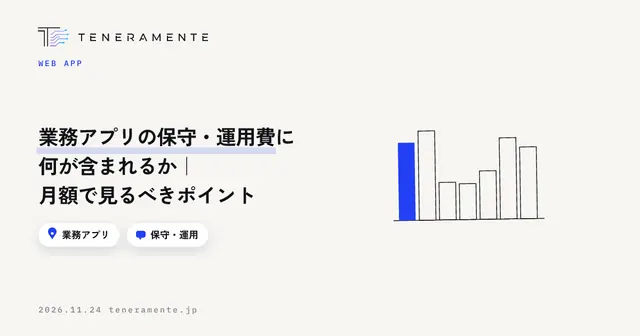
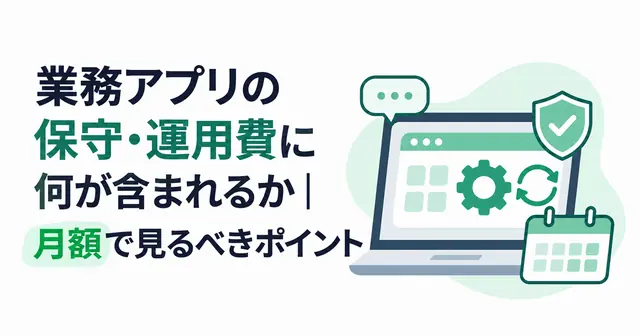
covers: 記事のトップ画像を ChatGPT の画像に差し替え（k123・k028・m210・m059・m058・m057・m056）

diff --git a/mieroom/articles/gyomu-system-demo-kakunin.html b/mieroom/articles/gyomu-system-demo-kakunin.html
@@ -13,15 +13,15 @@
 <meta property="og:description" content="賃貸仲介の店舗が業務管理システムのデモや説明の場で何を確かめればよいかを、反響から来店・接客、申込から入金・後AD、店長が数字を見る場面に分けて整理しました。デモの前に用意するもののチェックリストと、よくある失敗もまとめています。">
 <meta property="og:url" content="https://mieroom.cloud/articles/gyomu-system-demo-kakunin.html">
 <meta property="og:site_name" content="ミエルーム">
-<meta property="og:image" content="https://mieroom.cloud/assets/og-mieroom.png">
+<meta property="og:image" content="https://mieroom.cloud/assets/covers/gyomu-system-demo-kakunin.png">
 <meta property="og:image:width" content="1200">
-<meta property="og:image:height" content="630">
+<meta property="og:image:height" content="675">
 <meta name="twitter:card" content="summary_large_image">
 <link rel="preconnect" href="https://fonts.googleapis.com">
 <link rel="preconnect" href="https://fonts.gstatic.com" crossorigin>
 <link href="https://fonts.googleapis.com/css2?family=Noto+Sans+JP:wght@400;500;700;900&family=Zen+Kaku+Gothic+New:wght@500;700;900&display=swap" rel="stylesheet">
 <link rel="stylesheet" href="../assets/site.css">
-<script type="application/ld+json">{"@context":"https://schema.org","@graph":[{"@type":"BlogPosting","headline":"業務管理システムのデモで確かめること｜賃貸仲介の店舗が見るべき場面","description":"賃貸仲介の店舗が業務管理システムのデモや説明の場で何を確かめればよいかを、反響から来店・接客、申込から入金・後AD、店長が数字を見る場面に分けて整理しました。デモの前に用意するもののチェックリストと、よくある失敗もまとめています。","datePublished":"2026-11-28","dateModified":"2026-11-28","inLanguage":"ja","mainEntityOfPage":"https://mieroom.cloud/articles/gyomu-system-demo-kakunin.html","image":"https://mieroom.cloud/assets/og-mieroom.png","articleSection":"DX","author":{"@type":"Organization","name":"ミエルーム編集部"},"publisher":{"@type":"Organization","name":"株式会社TENERAMENTE","logo":{"@type":"ImageObject","url":"https://teneramente.jp/assets/img/favicon-512.png"}},"keywords":"業務管理システム, システム選定, デモ, 店舗運営, 賃貸仲介"},{"@type":"BreadcrumbList","itemListElement":[{"@type":"ListItem","position":1,"name":"ミエルーム","item":"https://mieroom.cloud/"},{"@type":"ListItem","position":2,"name":"ブログ","item":"https://mieroom.cloud/blog.html"},{"@type":"ListItem","position":3,"name":"業務管理システムのデモで確かめること｜賃貸仲介の店舗が見るべき場面","item":"https://mieroom.cloud/articles/gyomu-system-demo-kakunin.html"}]},{"@type":"FAQPage","mainEntity":[{"@type":"Question","name":"デモは何社くらい見ればよいですか？","acceptedAnswer":{"@type":"Answer","text":"数に決まりはありませんが、見るたびに同じ確認表へ書き込める範囲に絞るのがおすすめです。比べる軸を決めずに多くのデモを見ると、印象の比較になりがちです。まず自店の場面ごとの確認項目を作り、それに合いそうなものから見ていきます。"}},{"@type":"Question","name":"デモで実際の案件のデータを見せても大丈夫ですか？","acceptedAnswer":{"@type":"Answer","text":"お客様の氏名や連絡先などの個人情報は伏せ、案件の流れ（申込日、契約日、入金の状況など）が分かる形にして伝えます。流れが再現できれば、確かめたいことは十分に確認できます。"}},{"@type":"Question","name":"デモアカウントを発行してもらった場合、何を試せばよいですか？","acceptedAnswer":{"@type":"Answer","text":"説明の場で見た操作を、自店のスタッフが自分で再現できるかを試します。特に、反響の登録から申込・入金の記録までを、説明なしで操作できるかが大切です。操作に迷った場面は、導入後の教え方を考えるときの材料になります。"}},{"@type":"Question","name":"今のExcelのデータは、そのまま移せるものですか？","acceptedAnswer":{"@type":"Answer","text":"システムによって対応が違います。デモの場で、今使っている管理表の見本を見せ、どの項目がどこに入るのか、取り込みや初期設定を誰が行うのかを確かめておきます。移す範囲を先に決めておくと、話が早く進みます。"}},{"@type":"Question","name":"繁忙期の直前に導入を決めても間に合いますか？","acceptedAnswer":{"@type":"Answer","text":"使い始めるまでの段取りによります。初期設定とデータの移行にかかる手間、スタッフが操作に慣れるまでの時間を考えると、繁忙期より前に余裕を持って決めるほうが安心です。デモの場で、使い始めるまでの流れを具体的に聞いておきます。"}}]}]}</script>
+<script type="application/ld+json">{"@context":"https://schema.org","@graph":[{"@type":"BlogPosting","headline":"業務管理システムのデモで確かめること｜賃貸仲介の店舗が見るべき場面","description":"賃貸仲介の店舗が業務管理システムのデモや説明の場で何を確かめればよいかを、反響から来店・接客、申込から入金・後AD、店長が数字を見る場面に分けて整理しました。デモの前に用意するもののチェックリストと、よくある失敗もまとめています。","datePublished":"2026-11-28","dateModified":"2026-11-28","inLanguage":"ja","mainEntityOfPage":"https://mieroom.cloud/articles/gyomu-system-demo-kakunin.html","image":"https://mieroom.cloud/assets/covers/gyomu-system-demo-kakunin.png","articleSection":"DX","author":{"@type":"Organization","name":"ミエルーム編集部"},"publisher":{"@type":"Organization","name":"株式会社TENERAMENTE","logo":{"@type":"ImageObject","url":"https://teneramente.jp/assets/img/favicon-512.png"}},"keywords":"業務管理システム, システム選定, デモ, 店舗運営, 賃貸仲介"},{"@type":"BreadcrumbList","itemListElement":[{"@type":"ListItem","position":1,"name":"ミエルーム","item":"https://mieroom.cloud/"},{"@type":"ListItem","position":2,"name":"ブログ","item":"https://mieroom.cloud/blog.html"},{"@type":"ListItem","position":3,"name":"業務管理システムのデモで確かめること｜賃貸仲介の店舗が見るべき場面","item":"https://mieroom.cloud/articles/gyomu-system-demo-kakunin.html"}]},{"@type":"FAQPage","mainEntity":[{"@type":"Question","name":"デモは何社くらい見ればよいですか？","acceptedAnswer":{"@type":"Answer","text":"数に決まりはありませんが、見るたびに同じ確認表へ書き込める範囲に絞るのがおすすめです。比べる軸を決めずに多くのデモを見ると、印象の比較になりがちです。まず自店の場面ごとの確認項目を作り、それに合いそうなものから見ていきます。"}},{"@type":"Question","name":"デモで実際の案件のデータを見せても大丈夫ですか？","acceptedAnswer":{"@type":"Answer","text":"お客様の氏名や連絡先などの個人情報は伏せ、案件の流れ（申込日、契約日、入金の状況など）が分かる形にして伝えます。流れが再現できれば、確かめたいことは十分に確認できます。"}},{"@type":"Question","name":"デモアカウントを発行してもらった場合、何を試せばよいですか？","acceptedAnswer":{"@type":"Answer","text":"説明の場で見た操作を、自店のスタッフが自分で再現できるかを試します。特に、反響の登録から申込・入金の記録までを、説明なしで操作できるかが大切です。操作に迷った場面は、導入後の教え方を考えるときの材料になります。"}},{"@type":"Question","name":"今のExcelのデータは、そのまま移せるものですか？","acceptedAnswer":{"@type":"Answer","text":"システムによって対応が違います。デモの場で、今使っている管理表の見本を見せ、どの項目がどこに入るのか、取り込みや初期設定を誰が行うのかを確かめておきます。移す範囲を先に決めておくと、話が早く進みます。"}},{"@type":"Question","name":"繁忙期の直前に導入を決めても間に合いますか？","acceptedAnswer":{"@type":"Answer","text":"使い始めるまでの段取りによります。初期設定とデータの移行にかかる手間、スタッフが操作に慣れるまでの時間を考えると、繁忙期より前に余裕を持って決めるほうが安心です。デモの場で、使い始めるまでの流れを具体的に聞いておきます。"}}]}]}</script>
 <style id="mp-nav-fit">
 /* 狭い画面ではヘッダーのボタンを小さくして、右にはみ出さないようにする */
 @media (max-width: 640px) {
@@ -75,7 +75,9 @@
     </div>
   </div>
 </section>
-
+<div class="post-cover">
+  <div class="band band--img"><img src="../assets/covers/gyomu-system-demo-kakunin.webp" alt="業務管理システムのデモで確かめること｜賃貸仲介の店舗が見るべき場面" width="1200" height="675" decoding="async"></div>
+</div>
 <div class="post-body">
 <p>業務管理システムを比べるとき、デモや説明の場は「よさそうだった」という印象だけで終わりがちです。けれども導入してから困るのは、画面の見た目ではなく、自店の仕事の流れに合うかどうかです。<strong>業務管理システムのデモで確かめるべきなのは、機能の数ではなく自店の1日の流れ</strong>です。この記事では、賃貸仲介の店舗がデモで見るべき場面と、確かめる項目を整理します。</p>
 <div class="conclusion"><h4>この記事の結論</h4><p>デモの前に自店の業務を場面ごとに書き出し、<strong>反響から入金・後ADまでの実際の案件を1件流してもらう</strong>形で確かめると、導入後のずれが減ります。見るのは機能の有無より、入力の回数、途中の状態の分かりやすさ、店長が数字を見るまでの手間です。</p></div>

diff --git a/mieroom/articles/denwa-taio-manual.html b/mieroom/articles/denwa-taio-manual.html
@@ -13,15 +13,15 @@
 <meta property="og:description" content="賃貸仲介の店舗で、電話の一次対応を誰が出ても同じ形にするためのマニュアルの作り方をまとめました。最初に聞く項目の固定、物件が埋まっていたときの受け方、取次と不在時のルール、通話内容を記録に戻すところまで整理しています。">
 <meta property="og:url" content="https://mieroom.cloud/articles/denwa-taio-manual.html">
 <meta property="og:site_name" content="ミエルーム">
-<meta property="og:image" content="https://mieroom.cloud/assets/og-mieroom.png">
+<meta property="og:image" content="https://mieroom.cloud/assets/covers/denwa-taio-manual.png">
 <meta property="og:image:width" content="1200">
-<meta property="og:image:height" content="630">
+<meta property="og:image:height" content="675">
 <meta name="twitter:card" content="summary_large_image">
 <link rel="preconnect" href="https://fonts.googleapis.com">
 <link rel="preconnect" href="https://fonts.gstatic.com" crossorigin>
 <link href="https://fonts.googleapis.com/css2?family=Noto+Sans+JP:wght@400;500;700;900&family=Zen+Kaku+Gothic+New:wght@500;700;900&display=swap" rel="stylesheet">
 <link rel="stylesheet" href="../assets/site.css">
-<script type="application/ld+json">{"@context":"https://schema.org","@graph":[{"@type":"BlogPosting","headline":"賃貸仲介の電話対応マニュアルの作り方｜一次対応で聞く項目と記録の残し方","description":"賃貸仲介の店舗で、電話の一次対応を誰が出ても同じ形にするためのマニュアルの作り方をまとめました。最初に聞く項目の固定、物件が埋まっていたときの受け方、取次と不在時のルール、通話内容を記録に戻すところまで整理しています。","datePublished":"2026-10-23","dateModified":"2026-10-23","inLanguage":"ja","mainEntityOfPage":"https://mieroom.cloud/articles/denwa-taio-manual.html","image":"https://mieroom.cloud/assets/og-mieroom.png","articleSection":"業務効率化","author":{"@type":"Organization","name":"ミエルーム編集部"},"publisher":{"@type":"Organization","name":"株式会社TENERAMENTE","logo":{"@type":"ImageObject","url":"https://teneramente.jp/assets/img/favicon-512.png"}},"keywords":"反響管理, 電話対応, マニュアル, 新人育成, 賃貸仲介"},{"@type":"BreadcrumbList","itemListElement":[{"@type":"ListItem","position":1,"name":"ミエルーム","item":"https://mieroom.cloud/"},{"@type":"ListItem","position":2,"name":"ブログ","item":"https://mieroom.cloud/blog.html"},{"@type":"ListItem","position":3,"name":"賃貸仲介の電話対応マニュアルの作り方｜一次対応で聞く項目と記録の残し方","item":"https://mieroom.cloud/articles/denwa-taio-manual.html"}]},{"@type":"FAQPage","mainEntity":[{"@type":"Question","name":"電話で聞く項目は、多いほうがよいのではないですか？","acceptedAnswer":{"@type":"Answer","text":"一次対応では増やさないほうが結果につながります。電話で細かく条件を詰めようとすると、相手の負担になって話が終わってしまいます。電話で必要なのは、来店か次の連絡の約束を取れる程度の情報です。希望時期と、条件を1つか2つ。詳しい条件の聞き取りは来店時に行う前提で分けておくと、電話の時間が短くなり、約束まで進みやすくなります。"}},{"@type":"Question","name":"電話に出る人を決めておいたほうがよいですか？","acceptedAnswer":{"@type":"Answer","text":"担当を固定するより、誰が出ても同じ項目を聞ける形にしておくことをおすすめします。繁忙期は、決めた人が必ず出られるとは限りません。固定すると、その人が出られない時間帯の対応が崩れます。聞く項目と記録の形を揃えておけば、出た人がそのまま一次対応を終えられます。そのうえで、担当がついている方からの電話だけ取次ぐルールにする形が現実的です。"}},{"@type":"Question","name":"電話の内容を記録する時間が取れません。どうすればよいですか？","acceptedAnswer":{"@type":"Answer","text":"記録する項目を減らしてください。反響元、問い合わせ物件、希望時期、希望条件、次の約束、受けた日時と受けた人の6つに絞れば、通話の直後に入れられる分量になります。項目が多いマニュアルは、忙しい日に記録そのものが飛びます。また、紙のメモからの転記をなくし、記録する場所へ直接入れる形にすると、二度手間の分だけ時間が戻ります。"}}]}]}</script>
+<script type="application/ld+json">{"@context":"https://schema.org","@graph":[{"@type":"BlogPosting","headline":"賃貸仲介の電話対応マニュアルの作り方｜一次対応で聞く項目と記録の残し方","description":"賃貸仲介の店舗で、電話の一次対応を誰が出ても同じ形にするためのマニュアルの作り方をまとめました。最初に聞く項目の固定、物件が埋まっていたときの受け方、取次と不在時のルール、通話内容を記録に戻すところまで整理しています。","datePublished":"2026-10-23","dateModified":"2026-10-23","inLanguage":"ja","mainEntityOfPage":"https://mieroom.cloud/articles/denwa-taio-manual.html","image":"https://mieroom.cloud/assets/covers/denwa-taio-manual.png","articleSection":"業務効率化","author":{"@type":"Organization","name":"ミエルーム編集部"},"publisher":{"@type":"Organization","name":"株式会社TENERAMENTE","logo":{"@type":"ImageObject","url":"https://teneramente.jp/assets/img/favicon-512.png"}},"keywords":"反響管理, 電話対応, マニュアル, 新人育成, 賃貸仲介"},{"@type":"BreadcrumbList","itemListElement":[{"@type":"ListItem","position":1,"name":"ミエルーム","item":"https://mieroom.cloud/"},{"@type":"ListItem","position":2,"name":"ブログ","item":"https://mieroom.cloud/blog.html"},{"@type":"ListItem","position":3,"name":"賃貸仲介の電話対応マニュアルの作り方｜一次対応で聞く項目と記録の残し方","item":"https://mieroom.cloud/articles/denwa-taio-manual.html"}]},{"@type":"FAQPage","mainEntity":[{"@type":"Question","name":"電話で聞く項目は、多いほうがよいのではないですか？","acceptedAnswer":{"@type":"Answer","text":"一次対応では増やさないほうが結果につながります。電話で細かく条件を詰めようとすると、相手の負担になって話が終わってしまいます。電話で必要なのは、来店か次の連絡の約束を取れる程度の情報です。希望時期と、条件を1つか2つ。詳しい条件の聞き取りは来店時に行う前提で分けておくと、電話の時間が短くなり、約束まで進みやすくなります。"}},{"@type":"Question","name":"電話に出る人を決めておいたほうがよいですか？","acceptedAnswer":{"@type":"Answer","text":"担当を固定するより、誰が出ても同じ項目を聞ける形にしておくことをおすすめします。繁忙期は、決めた人が必ず出られるとは限りません。固定すると、その人が出られない時間帯の対応が崩れます。聞く項目と記録の形を揃えておけば、出た人がそのまま一次対応を終えられます。そのうえで、担当がついている方からの電話だけ取次ぐルールにする形が現実的です。"}},{"@type":"Question","name":"電話の内容を記録する時間が取れません。どうすればよいですか？","acceptedAnswer":{"@type":"Answer","text":"記録する項目を減らしてください。反響元、問い合わせ物件、希望時期、希望条件、次の約束、受けた日時と受けた人の6つに絞れば、通話の直後に入れられる分量になります。項目が多いマニュアルは、忙しい日に記録そのものが飛びます。また、紙のメモからの転記をなくし、記録する場所へ直接入れる形にすると、二度手間の分だけ時間が戻ります。"}}]}]}</script>
 <style id="mp-nav-fit">
 /* 狭い画面ではヘッダーのボタンを小さくして、右にはみ出さないようにする */
 @media (max-width: 640px) {
@@ -75,7 +75,9 @@
     </div>
   </div>
 </section>
-
+<div class="post-cover">
+  <div class="band band--img"><img src="../assets/covers/denwa-taio-manual.webp" alt="賃貸仲介の電話対応マニュアルの作り方｜一次対応で聞く項目と記録の残し方" width="1200" height="675" decoding="async"></div>
+</div>
 <div class="post-body">
 <p>ポータルサイトを見た方からの電話は、誰が受けても同じ内容になっているでしょうか。実際には、出た人によって聞く項目も受け方も変わりがちです。<strong>電話対応マニュアルで決めるべきなのは、話し方の見本ではなく、最初の数十秒で必ず聞く項目と、通話のあとに記録として何を残すかです</strong>。</p>
 <div class="conclusion"><h4>この記事の結論</h4><p>電話対応マニュアルは、文例集ではなく決めごとの一覧として作ります。<strong>固定するのは「必ず聞く項目」「物件が埋まっていたときの受け方」「取次と不在時のルール」「記録に残す内容」の4つ</strong>です。この4つが揃っていれば、新人が最初に電話を取っても来店の約束まで進められます。</p></div>

diff --git a/mieroom/articles/bukken-nyuko-tejun.html b/mieroom/articles/bukken-nyuko-tejun.html
@@ -13,15 +13,15 @@
 <meta property="og:description" content="複数のポータルサイトへ物件を出す入稿作業の時間を短くする手順をまとめました。物件情報の元をどこに置くか、掲載先ごとに違う項目の整理、新規より漏れやすい更新の進め方、担当と頻度の決め方まで整理しています。">
 <meta property="og:url" content="https://mieroom.cloud/articles/bukken-nyuko-tejun.html">
 <meta property="og:site_name" content="ミエルーム">
-<meta property="og:image" content="https://mieroom.cloud/assets/og-mieroom.png">
+<meta property="og:image" content="https://mieroom.cloud/assets/covers/bukken-nyuko-tejun.png">
 <meta property="og:image:width" content="1200">
-<meta property="og:image:height" content="630">
+<meta property="og:image:height" content="675">
 <meta name="twitter:card" content="summary_large_image">
 <link rel="preconnect" href="https://fonts.googleapis.com">
 <link rel="preconnect" href="https://fonts.gstatic.com" crossorigin>
 <link href="https://fonts.googleapis.com/css2?family=Noto+Sans+JP:wght@400;500;700;900&family=Zen+Kaku+Gothic+New:wght@500;700;900&display=swap" rel="stylesheet">
 <link rel="stylesheet" href="../assets/site.css">
-<script type="application/ld+json">{"@context":"https://schema.org","@graph":[{"@type":"BlogPosting","headline":"物件入稿の作業を短くする手順｜複数ポータルの重複入力と更新漏れをなくす","description":"複数のポータルサイトへ物件を出す入稿作業の時間を短くする手順をまとめました。物件情報の元をどこに置くか、掲載先ごとに違う項目の整理、新規より漏れやすい更新の進め方、担当と頻度の決め方まで整理しています。","datePublished":"2026-10-24","dateModified":"2026-10-24","inLanguage":"ja","mainEntityOfPage":"https://mieroom.cloud/articles/bukken-nyuko-tejun.html","image":"https://mieroom.cloud/assets/og-mieroom.png","articleSection":"集客・広告","author":{"@type":"Organization","name":"ミエルーム編集部"},"publisher":{"@type":"Organization","name":"株式会社TENERAMENTE","logo":{"@type":"ImageObject","url":"https://teneramente.jp/assets/img/favicon-512.png"}},"keywords":"物件入稿, ポータルサイト, 業務効率化, 掲載管理, 賃貸仲介"},{"@type":"BreadcrumbList","itemListElement":[{"@type":"ListItem","position":1,"name":"ミエルーム","item":"https://mieroom.cloud/"},{"@type":"ListItem","position":2,"name":"ブログ","item":"https://mieroom.cloud/blog.html"},{"@type":"ListItem","position":3,"name":"物件入稿の作業を短くする手順｜複数ポータルの重複入力と更新漏れをなくす","item":"https://mieroom.cloud/articles/bukken-nyuko-tejun.html"}]},{"@type":"FAQPage","mainEntity":[{"@type":"Question","name":"掲載先を減らしたほうが、作業は楽になりますか？","acceptedAnswer":{"@type":"Answer","text":"作業は減りますが、反響も減ります。先に見るのは、掲載先ごとにどれくらい反響が来ているかです。反響がほとんど来ていない掲載先であれば、作業量とあわせて見直す判断ができます。一方で、入稿の手間が理由で減らすのは順番が逆です。元を1か所に持つ形にすれば、掲載先が増えても作業は比例して増えません。まず形を変えてから、掲載先の数を判断してください。"}},{"@type":"Question","name":"入稿は担当者ごとに分けるべきですか、1人に集めるべきですか？","acceptedAnswer":{"@type":"Answer","text":"入稿する作業は分けてかまいません。繁忙期に1人に集めると、その人が休んだ日に掲載が止まります。ただし、掲載が今どうなっているかを確認する役は1人に決めてください。作業を分担しても、全体を見る人がいれば出し忘れと下げ忘れは拾えます。確認の役が複数いる形は、結果として誰も見ない状態になりやすいです。"}},{"@type":"Question","name":"写真や図面が元付けから来ないときはどうしていますか？","acceptedAnswer":{"@type":"Answer","text":"足りない状態でも出せる範囲で先に掲載し、材料がそろった時点で差し替える進め方が現実的です。ただし、どの物件で何が足りていないかを記録に残しておくことが前提になります。残っていないと、図面のない物件がそのまま掲載され続けます。依頼した日と、誰に依頼したかを物件の記録に書いておけば、催促の判断もできます。"}}]}]}</script>
+<script type="application/ld+json">{"@context":"https://schema.org","@graph":[{"@type":"BlogPosting","headline":"物件入稿の作業を短くする手順｜複数ポータルの重複入力と更新漏れをなくす","description":"複数のポータルサイトへ物件を出す入稿作業の時間を短くする手順をまとめました。物件情報の元をどこに置くか、掲載先ごとに違う項目の整理、新規より漏れやすい更新の進め方、担当と頻度の決め方まで整理しています。","datePublished":"2026-10-24","dateModified":"2026-10-24","inLanguage":"ja","mainEntityOfPage":"https://mieroom.cloud/articles/bukken-nyuko-tejun.html","image":"https://mieroom.cloud/assets/covers/bukken-nyuko-tejun.png","articleSection":"集客・広告","author":{"@type":"Organization","name":"ミエルーム編集部"},"publisher":{"@type":"Organization","name":"株式会社TENERAMENTE","logo":{"@type":"ImageObject","url":"https://teneramente.jp/assets/img/favicon-512.png"}},"keywords":"物件入稿, ポータルサイト, 業務効率化, 掲載管理, 賃貸仲介"},{"@type":"BreadcrumbList","itemListElement":[{"@type":"ListItem","position":1,"name":"ミエルーム","item":"https://mieroom.cloud/"},{"@type":"ListItem","position":2,"name":"ブログ","item":"https://mieroom.cloud/blog.html"},{"@type":"ListItem","position":3,"name":"物件入稿の作業を短くする手順｜複数ポータルの重複入力と更新漏れをなくす","item":"https://mieroom.cloud/articles/bukken-nyuko-tejun.html"}]},{"@type":"FAQPage","mainEntity":[{"@type":"Question","name":"掲載先を減らしたほうが、作業は楽になりますか？","acceptedAnswer":{"@type":"Answer","text":"作業は減りますが、反響も減ります。先に見るのは、掲載先ごとにどれくらい反響が来ているかです。反響がほとんど来ていない掲載先であれば、作業量とあわせて見直す判断ができます。一方で、入稿の手間が理由で減らすのは順番が逆です。元を1か所に持つ形にすれば、掲載先が増えても作業は比例して増えません。まず形を変えてから、掲載先の数を判断してください。"}},{"@type":"Question","name":"入稿は担当者ごとに分けるべきですか、1人に集めるべきですか？","acceptedAnswer":{"@type":"Answer","text":"入稿する作業は分けてかまいません。繁忙期に1人に集めると、その人が休んだ日に掲載が止まります。ただし、掲載が今どうなっているかを確認する役は1人に決めてください。作業を分担しても、全体を見る人がいれば出し忘れと下げ忘れは拾えます。確認の役が複数いる形は、結果として誰も見ない状態になりやすいです。"}},{"@type":"Question","name":"写真や図面が元付けから来ないときはどうしていますか？","acceptedAnswer":{"@type":"Answer","text":"足りない状態でも出せる範囲で先に掲載し、材料がそろった時点で差し替える進め方が現実的です。ただし、どの物件で何が足りていないかを記録に残しておくことが前提になります。残っていないと、図面のない物件がそのまま掲載され続けます。依頼した日と、誰に依頼したかを物件の記録に書いておけば、催促の判断もできます。"}}]}]}</script>
 <style id="mp-nav-fit">
 /* 狭い画面ではヘッダーのボタンを小さくして、右にはみ出さないようにする */
 @media (max-width: 640px) {
@@ -75,7 +75,9 @@
     </div>
   </div>
 </section>
-
+<div class="post-cover">
+  <div class="band band--img"><img src="../assets/covers/bukken-nyuko-tejun.webp" alt="物件入稿の作業を短くする手順｜複数ポータルの重複入力と更新漏れをなくす" width="1200" height="675" decoding="async"></div>
+</div>
 <div class="post-body">
 <p>物件を1件お預かりしてから掲載が出るまでに、どれくらい時間がかかっているでしょうか。掲載先が3つあれば、同じ物件の入力を3回繰り返している店舗も少なくありません。<strong>入稿の時間が長いのは、作業が遅いからではなく、同じ内容を掲載先ごとに打ち直しているからです</strong>。</p>
 <div class="conclusion"><h4>この記事の結論</h4><p>入稿を短くする方法は、入力を速くすることではありません。<strong>物件情報の「元」を1か所に持ち、掲載先ごとに違う部分だけを足す形に変えること</strong>です。この形にしておくと、新規の入稿も、賃料改定や成約にともなう更新も、元を直すだけで済みます。</p></div>

diff --git a/mieroom/articles/futai-shueki-kanri.html b/mieroom/articles/futai-shueki-kanri.html
@@ -13,15 +13,15 @@
 <meta property="og:description" content="仲介手数料以外の収益は、案件ごとに記録していないと取りこぼしに気づけません。付帯収益になるものの洗い出し方、漏れが起きる場面、案件ごとに残す項目、確定と見込みの分け方までを整理しました。">
 <meta property="og:url" content="https://mieroom.cloud/articles/futai-shueki-kanri.html">
 <meta property="og:site_name" content="ミエルーム">
-<meta property="og:image" content="https://mieroom.cloud/assets/og-mieroom.png">
+<meta property="og:image" content="https://mieroom.cloud/assets/covers/futai-shueki-kanri.png">
 <meta property="og:image:width" content="1200">
-<meta property="og:image:height" content="630">
+<meta property="og:image:height" content="675">
 <meta name="twitter:card" content="summary_large_image">
 <link rel="preconnect" href="https://fonts.googleapis.com">
 <link rel="preconnect" href="https://fonts.gstatic.com" crossorigin>
 <link href="https://fonts.googleapis.com/css2?family=Noto+Sans+JP:wght@400;500;700;900&family=Zen+Kaku+Gothic+New:wght@500;700;900&display=swap" rel="stylesheet">
 <link rel="stylesheet" href="../assets/site.css">
-<script type="application/ld+json">{"@context":"https://schema.org","@graph":[{"@type":"BlogPosting","headline":"賃貸仲介の付帯収益の管理｜保険や保証会社の手数料を取りこぼさない","description":"仲介手数料以外の収益は、案件ごとに記録していないと取りこぼしに気づけません。付帯収益になるものの洗い出し方、漏れが起きる場面、案件ごとに残す項目、確定と見込みの分け方までを整理しました。","datePublished":"2026-10-25","dateModified":"2026-10-25","inLanguage":"ja","mainEntityOfPage":"https://mieroom.cloud/articles/futai-shueki-kanri.html","image":"https://mieroom.cloud/assets/og-mieroom.png","articleSection":"売上管理","author":{"@type":"Organization","name":"ミエルーム編集部"},"publisher":{"@type":"Organization","name":"株式会社TENERAMENTE","logo":{"@type":"ImageObject","url":"https://teneramente.jp/assets/img/favicon-512.png"}},"keywords":"売上管理, 付帯収益, 請求漏れ, 店舗運営, 賃貸仲介"},{"@type":"BreadcrumbList","itemListElement":[{"@type":"ListItem","position":1,"name":"ミエルーム","item":"https://mieroom.cloud/"},{"@type":"ListItem","position":2,"name":"ブログ","item":"https://mieroom.cloud/blog.html"},{"@type":"ListItem","position":3,"name":"賃貸仲介の付帯収益の管理｜保険や保証会社の手数料を取りこぼさない","item":"https://mieroom.cloud/articles/futai-shueki-kanri.html"}]},{"@type":"FAQPage","mainEntity":[{"@type":"Question","name":"付帯収益は毎月いくらを目標にすべきですか？","acceptedAnswer":{"@type":"Answer","text":"金額の目標を先に置くより、取りこぼしをゼロにするほうが先です。扱いのある付帯について、対象だった案件のうち処理済みの件数がどれだけあるかを見てください。ここが埋まっていない状態で目標を立てると、現場は新しい提案を増やす方向に動きます。先に漏れを止めてから、提案の話に進むほうが無理がありません。"}},{"@type":"Question","name":"お客様が自分で保険に入る場合、記録は不要ですか？","acceptedAnswer":{"@type":"Answer","text":"記録してください。対象外だったことが残っていないと、確認のたびに同じ案件を調べ直すことになります。「自己手配」と1つ入れておけば、未処理の一覧から外れます。記録の目的は売上を作ることではなく、追わなくてよい案件を確定させることです。"}},{"@type":"Question","name":"担当者ごとの成績に付帯収益を入れるべきですか？","acceptedAnswer":{"@type":"Answer","text":"入れる場合は、仲介手数料と分けて見える形にしてください。合算すると、どちらで伸びたのかが分からなくなります。また、付帯の提案は案内の内容によって機会そのものが変わるため、件数だけで比べると不公平が出ます。成績の見方は[スタッフごとの成績管理](./staff-seiseki-kanri.html)に整理しています。"}}]}]}</script>
+<script type="application/ld+json">{"@context":"https://schema.org","@graph":[{"@type":"BlogPosting","headline":"賃貸仲介の付帯収益の管理｜保険や保証会社の手数料を取りこぼさない","description":"仲介手数料以外の収益は、案件ごとに記録していないと取りこぼしに気づけません。付帯収益になるものの洗い出し方、漏れが起きる場面、案件ごとに残す項目、確定と見込みの分け方までを整理しました。","datePublished":"2026-10-25","dateModified":"2026-10-25","inLanguage":"ja","mainEntityOfPage":"https://mieroom.cloud/articles/futai-shueki-kanri.html","image":"https://mieroom.cloud/assets/covers/futai-shueki-kanri.png","articleSection":"売上管理","author":{"@type":"Organization","name":"ミエルーム編集部"},"publisher":{"@type":"Organization","name":"株式会社TENERAMENTE","logo":{"@type":"ImageObject","url":"https://teneramente.jp/assets/img/favicon-512.png"}},"keywords":"売上管理, 付帯収益, 請求漏れ, 店舗運営, 賃貸仲介"},{"@type":"BreadcrumbList","itemListElement":[{"@type":"ListItem","position":1,"name":"ミエルーム","item":"https://mieroom.cloud/"},{"@type":"ListItem","position":2,"name":"ブログ","item":"https://mieroom.cloud/blog.html"},{"@type":"ListItem","position":3,"name":"賃貸仲介の付帯収益の管理｜保険や保証会社の手数料を取りこぼさない","item":"https://mieroom.cloud/articles/futai-shueki-kanri.html"}]},{"@type":"FAQPage","mainEntity":[{"@type":"Question","name":"付帯収益は毎月いくらを目標にすべきですか？","acceptedAnswer":{"@type":"Answer","text":"金額の目標を先に置くより、取りこぼしをゼロにするほうが先です。扱いのある付帯について、対象だった案件のうち処理済みの件数がどれだけあるかを見てください。ここが埋まっていない状態で目標を立てると、現場は新しい提案を増やす方向に動きます。先に漏れを止めてから、提案の話に進むほうが無理がありません。"}},{"@type":"Question","name":"お客様が自分で保険に入る場合、記録は不要ですか？","acceptedAnswer":{"@type":"Answer","text":"記録してください。対象外だったことが残っていないと、確認のたびに同じ案件を調べ直すことになります。「自己手配」と1つ入れておけば、未処理の一覧から外れます。記録の目的は売上を作ることではなく、追わなくてよい案件を確定させることです。"}},{"@type":"Question","name":"担当者ごとの成績に付帯収益を入れるべきですか？","acceptedAnswer":{"@type":"Answer","text":"入れる場合は、仲介手数料と分けて見える形にしてください。合算すると、どちらで伸びたのかが分からなくなります。また、付帯の提案は案内の内容によって機会そのものが変わるため、件数だけで比べると不公平が出ます。成績の見方は[スタッフごとの成績管理](./staff-seiseki-kanri.html)に整理しています。"}}]}]}</script>
 <style id="mp-nav-fit">
 /* 狭い画面ではヘッダーのボタンを小さくして、右にはみ出さないようにする */
 @media (max-width: 640px) {
@@ -75,7 +75,9 @@
     </div>
   </div>
 </section>
-
+<div class="post-cover">
+  <div class="band band--img"><img src="../assets/covers/futai-shueki-kanri.webp" alt="賃貸仲介の付帯収益の管理｜保険や保証会社の手数料を取りこぼさない" width="1200" height="675" decoding="async"></div>
+</div>
 <div class="post-body">
 <p>賃貸仲介の店舗で見落とされやすいのが、仲介手数料以外の収益です。保険や保証会社の手数料、鍵交換やクリーニングの手配分。<strong>一件ごとの金額が小さいため、抜けても誰も気づかないまま決算まで進みます</strong>。防ぐ方法は、記録の形を変えることです。</p>
 <div class="conclusion"><h4>この記事の結論</h4><p>付帯収益の取りこぼしは、気をつけることでは防げません。<strong>案件ごとに「どの付帯があるか」を契約時点で記録し、入金まで追える形にすること</strong>が唯一の対策です。合計の売上だけを見ていると、抜けている分は最後まで見えません。</p></div>

diff --git a/mieroom/articles/bukken-data-torikomi.html b/mieroom/articles/bukken-data-torikomi.html
@@ -13,15 +13,15 @@
 <meta property="og:description" content="管理会社や業者間サイトから届く物件データを、打ち直さずに使える形にそろえる手順をまとめました。自店で持つ項目の決め方、届く経路ごとの扱い方、取り込んだあとの更新の進め方まで整理しています。">
 <meta property="og:url" content="https://mieroom.cloud/articles/bukken-data-torikomi.html">
 <meta property="og:site_name" content="ミエルーム">
-<meta property="og:image" content="https://mieroom.cloud/assets/og-mieroom.png">
+<meta property="og:image" content="https://mieroom.cloud/assets/covers/bukken-data-torikomi.png">
 <meta property="og:image:width" content="1200">
-<meta property="og:image:height" content="630">
+<meta property="og:image:height" content="675">
 <meta name="twitter:card" content="summary_large_image">
 <link rel="preconnect" href="https://fonts.googleapis.com">
 <link rel="preconnect" href="https://fonts.gstatic.com" crossorigin>
 <link href="https://fonts.googleapis.com/css2?family=Noto+Sans+JP:wght@400;500;700;900&family=Zen+Kaku+Gothic+New:wght@500;700;900&display=swap" rel="stylesheet">
 <link rel="stylesheet" href="../assets/site.css">
-<script type="application/ld+json">{"@context":"https://schema.org","@graph":[{"@type":"BlogPosting","headline":"物件データの取り込みを楽にする手順｜届いたExcelや図面を自店の形にそろえる","description":"管理会社や業者間サイトから届く物件データを、打ち直さずに使える形にそろえる手順をまとめました。自店で持つ項目の決め方、届く経路ごとの扱い方、取り込んだあとの更新の進め方まで整理しています。","datePublished":"2026-10-26","dateModified":"2026-10-26","inLanguage":"ja","mainEntityOfPage":"https://mieroom.cloud/articles/bukken-data-torikomi.html","image":"https://mieroom.cloud/assets/og-mieroom.png","articleSection":"DX","author":{"@type":"Organization","name":"ミエルーム編集部"},"publisher":{"@type":"Organization","name":"株式会社TENERAMENTE","logo":{"@type":"ImageObject","url":"https://teneramente.jp/assets/img/favicon-512.png"}},"keywords":"物件データ, Excel, DX, 業務効率化, 賃貸仲介"},{"@type":"BreadcrumbList","itemListElement":[{"@type":"ListItem","position":1,"name":"ミエルーム","item":"https://mieroom.cloud/"},{"@type":"ListItem","position":2,"name":"ブログ","item":"https://mieroom.cloud/blog.html"},{"@type":"ListItem","position":3,"name":"物件データの取り込みを楽にする手順｜届いたExcelや図面を自店の形にそろえる","item":"https://mieroom.cloud/articles/bukken-data-torikomi.html"}]},{"@type":"FAQPage","mainEntity":[{"@type":"Question","name":"Excelの形式が送り主ごとに違うのですが、そろえてもらうべきですか？","acceptedAnswer":{"@type":"Answer","text":"送り主に形式の変更をお願いするのは現実的ではないことが多いため、自店側で読み替えの対応を決めておくほうが早く済みます。届く形はそのままで構いません。重要なのは、同じ送り主から届くファイルについて、どの列が自店のどの項目にあたるかを一度決めて残しておくことです。"}},{"@type":"Question","name":"物件数が少ない店舗でも、取り込みの手順を決める意味はありますか？","acceptedAnswer":{"@type":"Answer","text":"件数が少ないうちは手入力でも回りますが、項目の持ち方だけは早い段階で決めておく価値があります。あとから項目をそろえ直す作業は、既にある物件の分だけ発生するためです。件数が少ないときに決めておけば、増えてからの作業が軽くなります。"}},{"@type":"Question","name":"紙やFAXで届く物件は、どう扱えばよいですか？","acceptedAnswer":{"@type":"Answer","text":"スキャンか撮影で画像にして、物件の記録に添付する形をおすすめします。入力するのは検索の条件に使う項目だけで十分です。紙のまま保管すると、担当者が不在のときに他のスタッフが探せず、問い合わせへの回答が遅れます。画像にしておけば、少なくとも「どこにあるか」は決まります。"}}]}]}</script>
+<script type="application/ld+json">{"@context":"https://schema.org","@graph":[{"@type":"BlogPosting","headline":"物件データの取り込みを楽にする手順｜届いたExcelや図面を自店の形にそろえる","description":"管理会社や業者間サイトから届く物件データを、打ち直さずに使える形にそろえる手順をまとめました。自店で持つ項目の決め方、届く経路ごとの扱い方、取り込んだあとの更新の進め方まで整理しています。","datePublished":"2026-10-26","dateModified":"2026-10-26","inLanguage":"ja","mainEntityOfPage":"https://mieroom.cloud/articles/bukken-data-torikomi.html","image":"https://mieroom.cloud/assets/covers/bukken-data-torikomi.png","articleSection":"DX","author":{"@type":"Organization","name":"ミエルーム編集部"},"publisher":{"@type":"Organization","name":"株式会社TENERAMENTE","logo":{"@type":"ImageObject","url":"https://teneramente.jp/assets/img/favicon-512.png"}},"keywords":"物件データ, Excel, DX, 業務効率化, 賃貸仲介"},{"@type":"BreadcrumbList","itemListElement":[{"@type":"ListItem","position":1,"name":"ミエルーム","item":"https://mieroom.cloud/"},{"@type":"ListItem","position":2,"name":"ブログ","item":"https://mieroom.cloud/blog.html"},{"@type":"ListItem","position":3,"name":"物件データの取り込みを楽にする手順｜届いたExcelや図面を自店の形にそろえる","item":"https://mieroom.cloud/articles/bukken-data-torikomi.html"}]},{"@type":"FAQPage","mainEntity":[{"@type":"Question","name":"Excelの形式が送り主ごとに違うのですが、そろえてもらうべきですか？","acceptedAnswer":{"@type":"Answer","text":"送り主に形式の変更をお願いするのは現実的ではないことが多いため、自店側で読み替えの対応を決めておくほうが早く済みます。届く形はそのままで構いません。重要なのは、同じ送り主から届くファイルについて、どの列が自店のどの項目にあたるかを一度決めて残しておくことです。"}},{"@type":"Question","name":"物件数が少ない店舗でも、取り込みの手順を決める意味はありますか？","acceptedAnswer":{"@type":"Answer","text":"件数が少ないうちは手入力でも回りますが、項目の持ち方だけは早い段階で決めておく価値があります。あとから項目をそろえ直す作業は、既にある物件の分だけ発生するためです。件数が少ないときに決めておけば、増えてからの作業が軽くなります。"}},{"@type":"Question","name":"紙やFAXで届く物件は、どう扱えばよいですか？","acceptedAnswer":{"@type":"Answer","text":"スキャンか撮影で画像にして、物件の記録に添付する形をおすすめします。入力するのは検索の条件に使う項目だけで十分です。紙のまま保管すると、担当者が不在のときに他のスタッフが探せず、問い合わせへの回答が遅れます。画像にしておけば、少なくとも「どこにあるか」は決まります。"}}]}]}</script>
 <style id="mp-nav-fit">
 /* 狭い画面ではヘッダーのボタンを小さくして、右にはみ出さないようにする */
 @media (max-width: 640px) {
@@ -75,7 +75,9 @@
     </div>
   </div>
 </section>
-
+<div class="post-cover">
+  <div class="band band--img"><img src="../assets/covers/bukken-data-torikomi.webp" alt="物件データの取り込みを楽にする手順｜届いたExcelや図面を自店の形にそろえる" width="1200" height="675" decoding="async"></div>
+</div>
 <div class="post-body">
 <p>管理会社からはExcel、業者間サイトからは画面のコピー、別の会社からはPDFの図面だけ。賃貸仲介の店舗に届く物件データは、<strong>届く形がそろっていないまま毎日増えていきます</strong>。そのうえで自店の管理表に打ち直しているため、物件が増えるほど入力の時間も間違いも増えていきます。</p>
 <div class="conclusion">

diff --git a/mieroom/blog.html b/mieroom/blog.html
@@ -196,7 +196,7 @@ src="https://www.facebook.com/tr?id=28086413637650888&ev=PageView&noscript=1"
       </a>
 
       <a class="bpost" data-cat="DX" data-text="業務管理システムのデモで確かめること｜賃貸仲介の店舗が見るべき場面 業務管理システム システム選定 デモ 店舗運営 賃貸仲介" href="articles/gyomu-system-demo-kakunin.html">
-        <div class="bcover bcover--text"><span class="bct-cat">DX</span><b>業務管理システムのデモで確かめること｜賃貸仲介の店舗が見るべき場面</b></div>
+        <div class="bcover bcover--img"><img src="assets/covers/gyomu-system-demo-kakunin-card.webp" alt="業務管理システムのデモで確かめること｜賃貸仲介の店舗が見るべき場面" loading="lazy" decoding="async" width="640" height="360"></div>
         <div class="bbody">
           <div class="bmeta"><span class="bcat">DX</span><span class="bdate">2026.11.28</span></div>
           <h3>業務管理システムのデモで確かめること｜賃貸仲介の店舗が見るべき場面</h3>
@@ -526,7 +526,7 @@ src="https://www.facebook.com/tr?id=28086413637650888&ev=PageView&noscript=1"
       </a>
 
       <a class="bpost" data-cat="DX" data-text="物件データの取り込みを楽にする手順｜届いたExcelや図面を自店の形にそろえる 物件データ Excel DX 業務効率化 賃貸仲介" href="articles/bukken-data-torikomi.html">
-        <div class="bcover bcover--text"><span class="bct-cat">DX</span><b>物件データの取り込みを楽にする手順｜届いたExcelや図面を自店の形にそろえる</b></div>
+        <div class="bcover bcover--img"><img src="assets/covers/bukken-data-torikomi-card.webp" alt="物件データの取り込みを楽にする手順｜届いたExcelや図面を自店の形にそろえる" loading="lazy" decoding="async" width="640" height="360"></div>
         <div class="bbody">
           <div class="bmeta"><span class="bcat">DX</span><span class="bdate">2026.10.26</span></div>
           <h3>物件データの取り込みを楽にする手順｜届いたExcelや図面を自店の形にそろえる</h3>
@@ -536,7 +536,7 @@ src="https://www.facebook.com/tr?id=28086413637650888&ev=PageView&noscript=1"
       </a>
 
       <a class="bpost" data-cat="売上管理" data-text="賃貸仲介の付帯収益の管理｜保険や保証会社の手数料を取りこぼさない 売上管理 付帯収益 請求漏れ 店舗運営 賃貸仲介" href="articles/futai-shueki-kanri.html">
-        <div class="bcover bcover--text"><span class="bct-cat">売上管理</span><b>賃貸仲介の付帯収益の管理｜保険や保証会社の手数料を取りこぼさない</b></div>
+        <div class="bcover bcover--img"><img src="assets/covers/futai-shueki-kanri-card.webp" alt="賃貸仲介の付帯収益の管理｜保険や保証会社の手数料を取りこぼさない" loading="lazy" decoding="async" width="640" height="360"></div>
         <div class="bbody">
           <div class="bmeta"><span class="bcat">売上管理</span><span class="bdate">2026.10.25</span></div>
           <h3>賃貸仲介の付帯収益の管理｜保険や保証会社の手数料を取りこぼさない</h3>
@@ -546,7 +546,7 @@ src="https://www.facebook.com/tr?id=28086413637650888&ev=PageView&noscript=1"
       </a>
 
       <a class="bpost" data-cat="集客・広告" data-text="物件入稿の作業を短くする手順｜複数ポータルの重複入力と更新漏れをなくす 物件入稿 ポータルサイト 業務効率化 掲載管理 賃貸仲介" href="articles/bukken-nyuko-tejun.html">
-        <div class="bcover bcover--text"><span class="bct-cat">集客・広告</span><b>物件入稿の作業を短くする手順｜複数ポータルの重複入力と更新漏れをなくす</b></div>
+        <div class="bcover bcover--img"><img src="assets/covers/bukken-nyuko-tejun-card.webp" alt="物件入稿の作業を短くする手順｜複数ポータルの重複入力と更新漏れをなくす" loading="lazy" decoding="async" width="640" height="360"></div>
         <div class="bbody">
           <div class="bmeta"><span class="bcat">集客・広告</span><span class="bdate">2026.10.24</span></div>
           <h3>物件入稿の作業を短くする手順｜複数ポータルの重複入力と更新漏れをなくす</h3>
@@ -556,7 +556,7 @@ src="https://www.facebook.com/tr?id=28086413637650888&ev=PageView&noscript=1"
       </a>
 
       <a class="bpost" data-cat="業務効率化" data-text="賃貸仲介の電話対応マニュアルの作り方｜一次対応で聞く項目と記録の残し方 反響管理 電話対応 マニュアル 新人育成 賃貸仲介" href="articles/denwa-taio-manual.html">
-        <div class="bcover bcover--text"><span class="bct-cat">業務効率化</span><b>賃貸仲介の電話対応マニュアルの作り方｜一次対応で聞く項目と記録の残し方</b></div>
+        <div class="bcover bcover--img"><img src="assets/covers/denwa-taio-manual-card.webp" alt="賃貸仲介の電話対応マニュアルの作り方｜一次対応で聞く項目と記録の残し方" loading="lazy" decoding="async" width="640" height="360"></div>
         <div class="bbody">
           <div class="bmeta"><span class="bcat">業務効率化</span><span class="bdate">2026.10.23</span></div>
           <h3>賃貸仲介の電話対応マニュアルの作り方｜一次対応で聞く項目と記録の残し方</h3>

diff --git a/blog.html b/blog.html
@@ -143,7 +143,7 @@ src="https://www.facebook.com/tr?id=28086413637650888&ev=PageView&noscript=1"
   <div class="wrap">
     <div class="articles-grid" data-articles><!--STATIC-CARDS-->
       <a class="article-card reveal" href="2026-11-28-seisei-ai-kenshu-oshieru-naiyo.html" data-cat="ai">
-        <div class="visual"><img src="assets/img/covers/2026-11-28-seisei-ai-kenshu-oshieru-naiyo.png" alt="" width="640" height="336" loading="lazy" decoding="async" style="position:absolute;inset:0;width:100%;height:100%;object-fit:cover;"></div>
+        <div class="visual"><img src="assets/img/covers/2026-11-28-seisei-ai-kenshu-oshieru-naiyo-card.webp" alt="" width="640" height="336" loading="lazy" decoding="async" style="position:absolute;inset:0;width:100%;height:100%;object-fit:cover;"></div>
         <div class="meta-row">
           <span class="cat">AI</span>
           <span class="dot"></span>

diff --git a/2026-11-28-seisei-ai-kenshu-oshieru-naiyo.html b/2026-11-28-seisei-ai-kenshu-oshieru-naiyo.html
@@ -179,7 +179,7 @@ src="https://www.facebook.com/tr?id=28086413637650888&ev=PageView&noscript=1"
 </section>
 
 <div class="post-cover">
-  <div class="post-cover-inner"><img src="assets/img/covers/2026-11-28-seisei-ai-kenshu-oshieru-naiyo.png" alt="生成AI研修で社員に教える内容｜部門別の活用例とプロンプトの型" width="1200" height="630" fetchpriority="high" decoding="async" style="position:absolute;inset:0;width:100%;height:100%;object-fit:cover;"></div>
+  <div class="post-cover-inner"><img src="assets/img/covers/2026-11-28-seisei-ai-kenshu-oshieru-naiyo.webp" alt="生成AI研修で社員に教える内容｜部門別の活用例とプロンプトの型" width="1200" height="630" fetchpriority="high" decoding="async" style="position:absolute;inset:0;width:100%;height:100%;object-fit:cover;"></div>
 </div>
 
 <div class="post-wrap">
